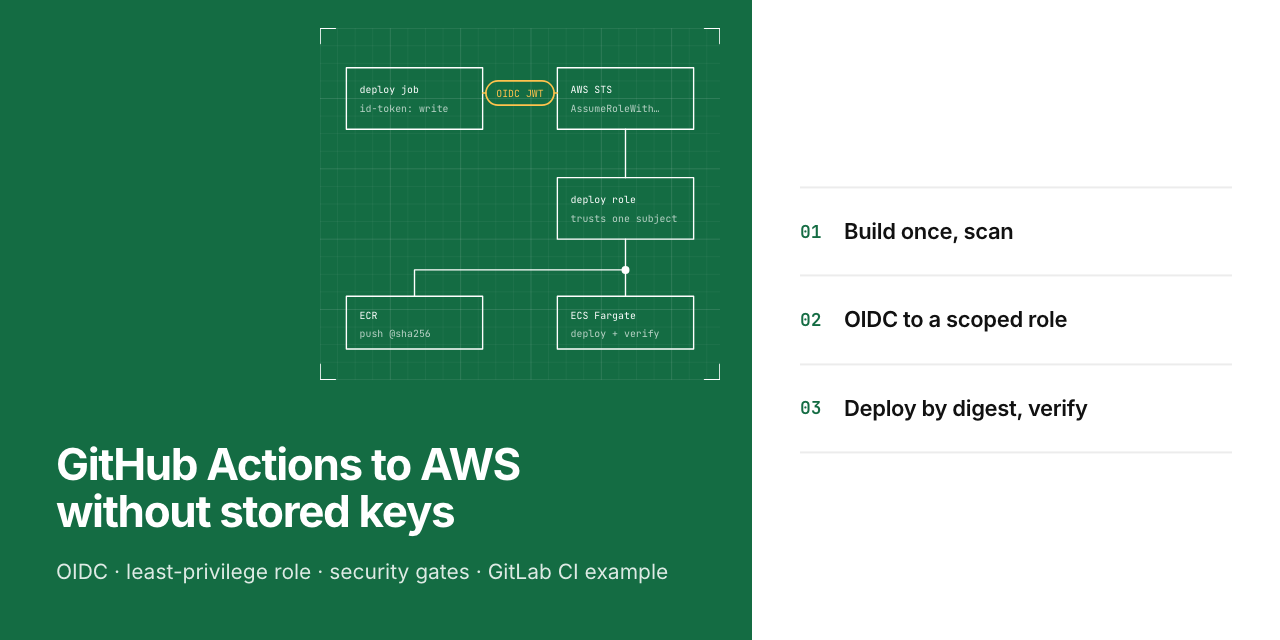
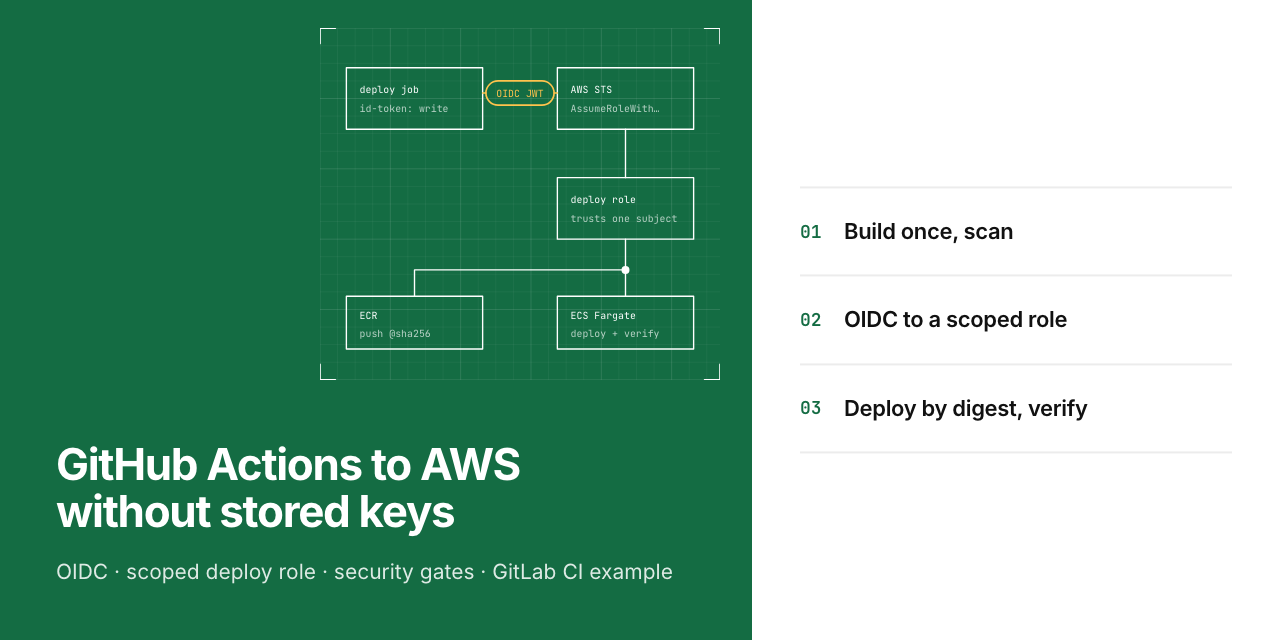
docs: add animated architecture diagram and pin shared workflows (#5)
* docs: add animated architecture diagram and pin shared workflows

* ci: label shared workflow pins with the gamaware/.github revision

Changed region(s): [[0.0938, 0.875, 0.5312, 0.9062]]

diff --git a/README.md b/README.md
@@ -67,6 +67,8 @@ The work is done when:
 
 ## Architecture
 
+![Animated flow: build once, trust through OIDC, deploy to Fargate by digest](docs/diagrams/architecture-animated.svg)
+
 ![Keyless deploys from CI to AWS: GitHub Actions and GitLab CI trade OIDC tokens for role credentials](docs/diagrams/context.png)
 
 The engineer merges to `main` and approves the production deploy. The CI job asks its own OIDC issuer for a signed
